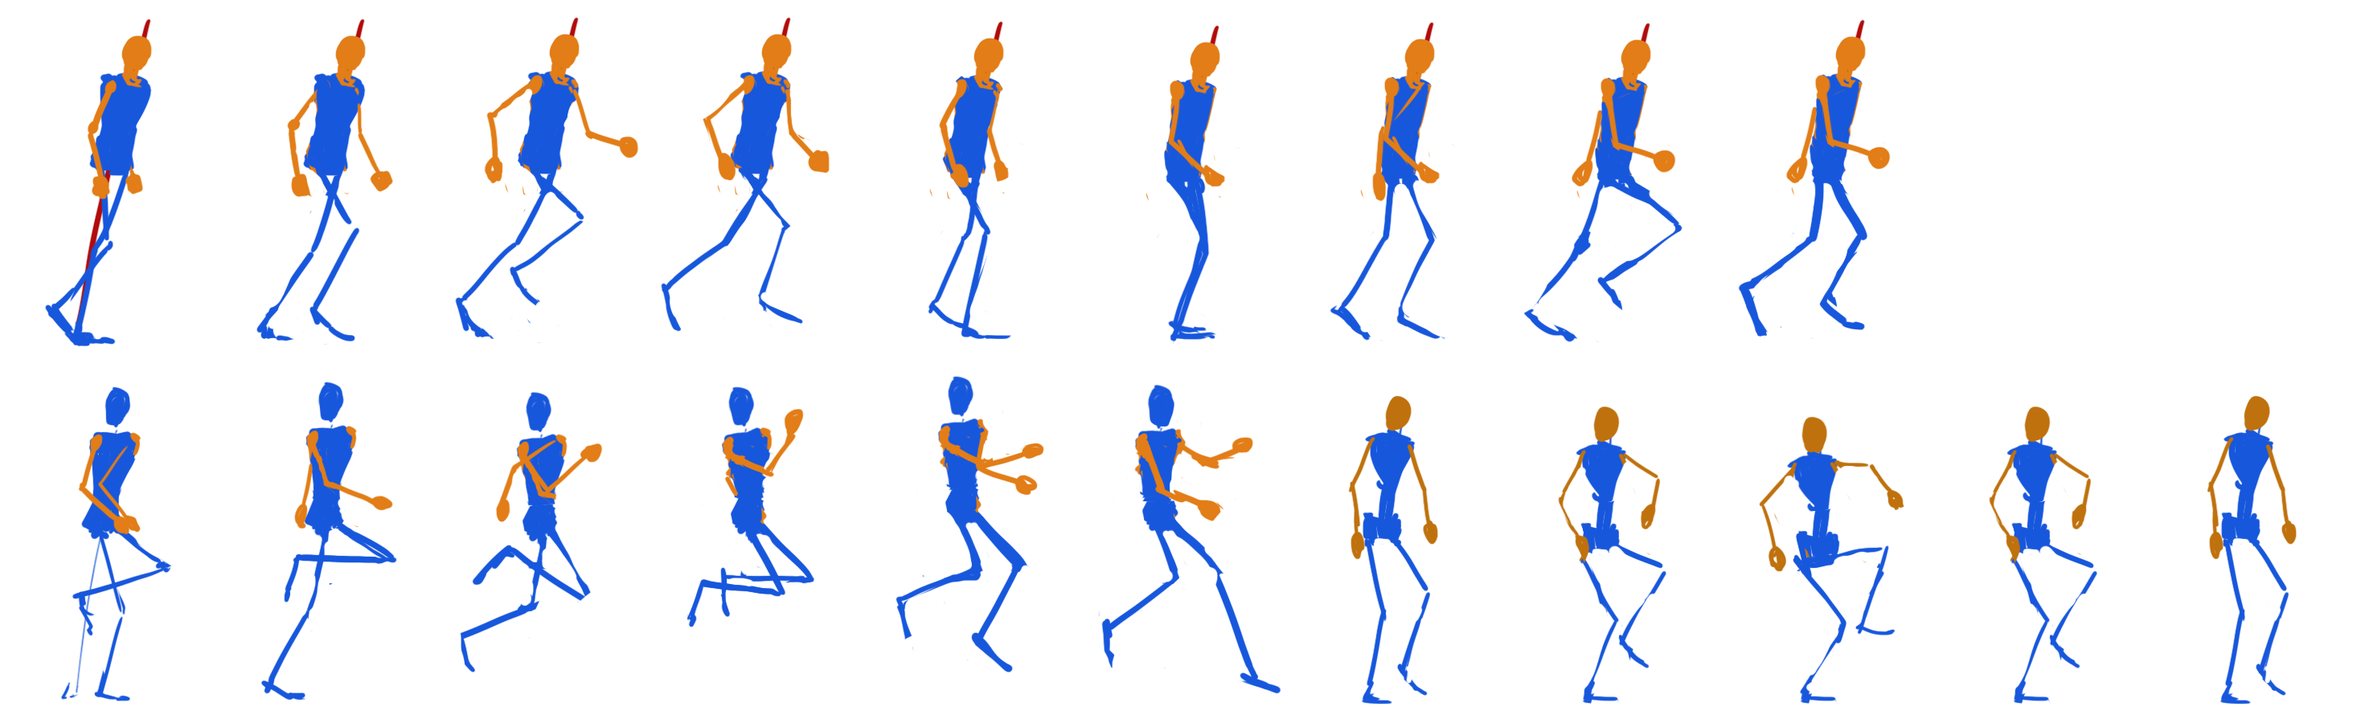
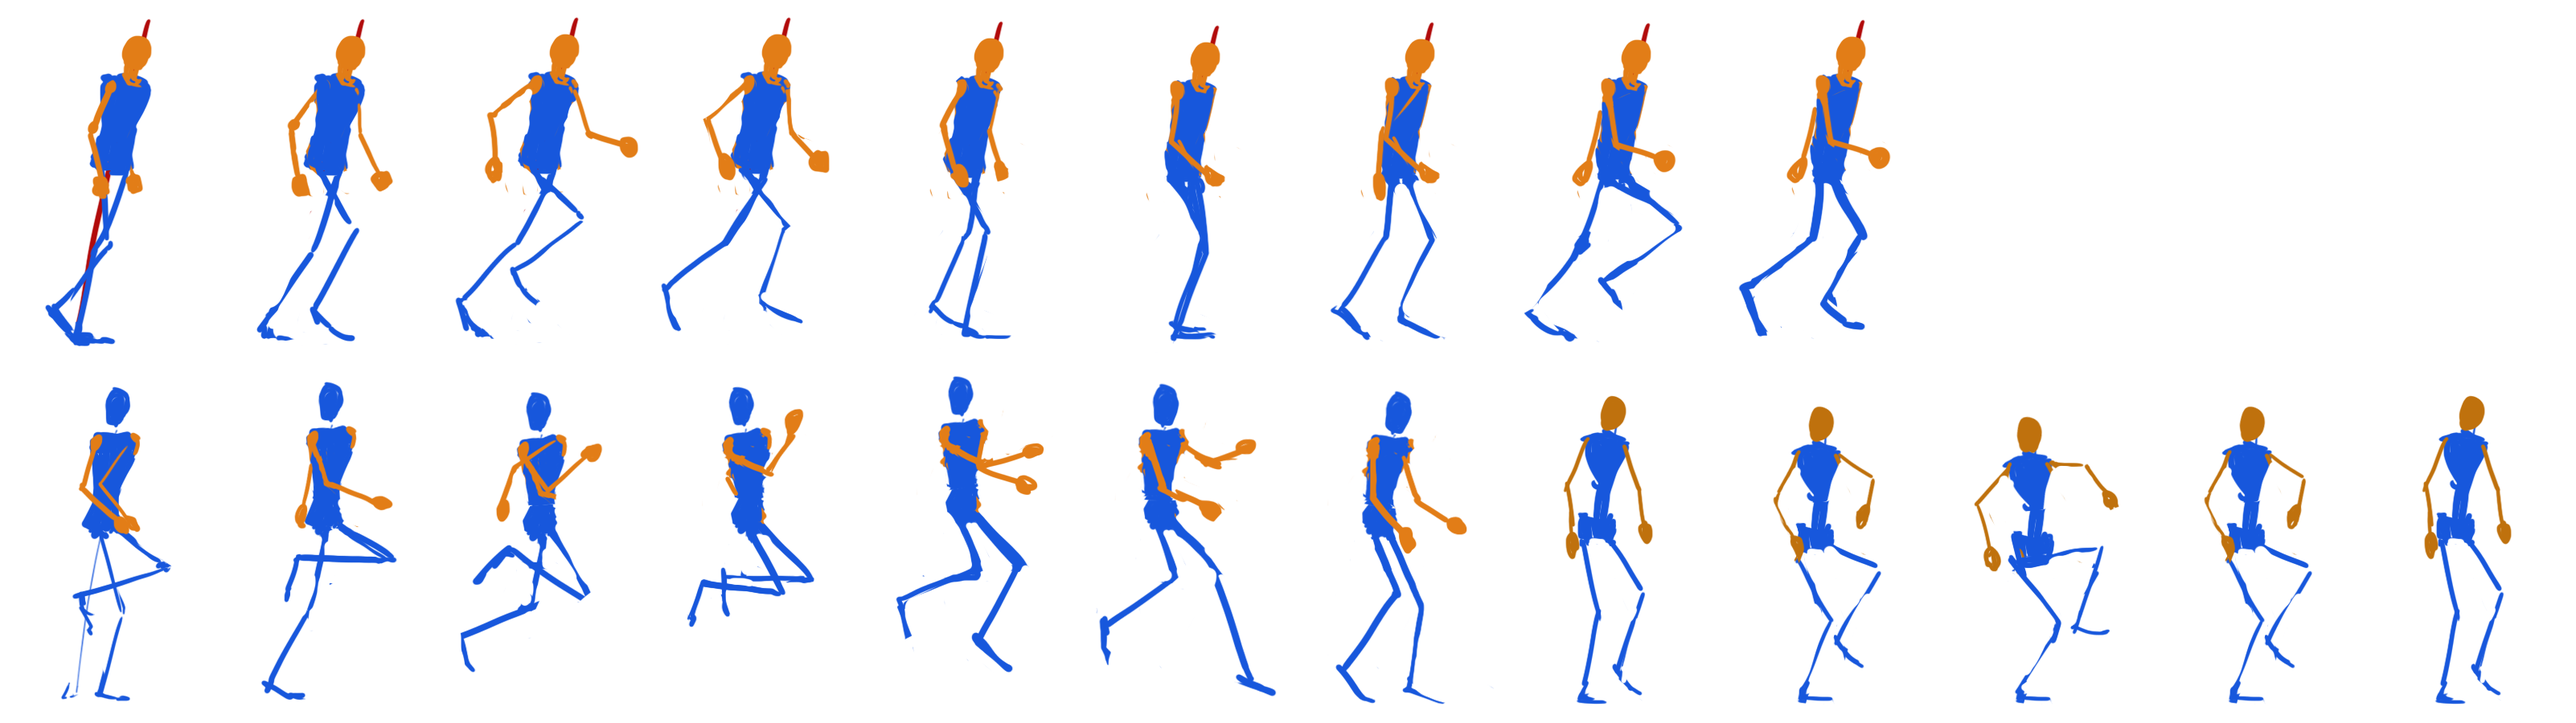
小山3/9作業分 DrawRectでxとｙだけの当たり判定を表示 Playerのアニメーション更新 PlayerとYIwaの当たり判定を修正

diff --git a/GameProject/Project/GameProject/Game/AnimData.cpp b/GameProject/Project/GameProject/Game/AnimData.cpp
@@ -2,42 +2,44 @@
 
 
 static TexAnim playerRun[] = {
-	
-	{5,4},
-	{6,4},
-	{7,4},
-	{8,4},
 	{0,4},
 	{1,4},
 	{2,4},
 	{3,4},
 	{4,4},
+	{5,4},
+	{6,4},
+	{7,4},
+	{8,4},
 };
 static TexAnim playerJumpUp[] = {
-	{11,4},
 	{12,4},
 	{13,4},
 	{14,4},
+	{15,4},
 };
 static TexAnim playerJumpDown[] = {
-	{15,8},
-	{16,8},
+	{16,10},
+	{17,10},
+	{18,8},
+	/*
 	{8,4},
 	{6,4},
 	{5,4},
 	{4,4},
+	*/
 };
 
 static TexAnim playerDamage[] = {
-	{17,4},
-	{9,1},
-	{18,4},
-	{9,1},
 	{19,4},
 	{9,1},
 	{20,4},
 	{9,1},
 	{21,14},
+	{9,1},
+	{22,4},
+	{9,1},
+	{23,4},
 };
 
 TexAnimData player_anim_data[] = {
@@ -46,4 +48,3 @@ TexAnimData player_anim_data[] = {
 	ANIMDATA(playerJumpDown),
 	ANIMDATA(playerDamage),
 };
-
